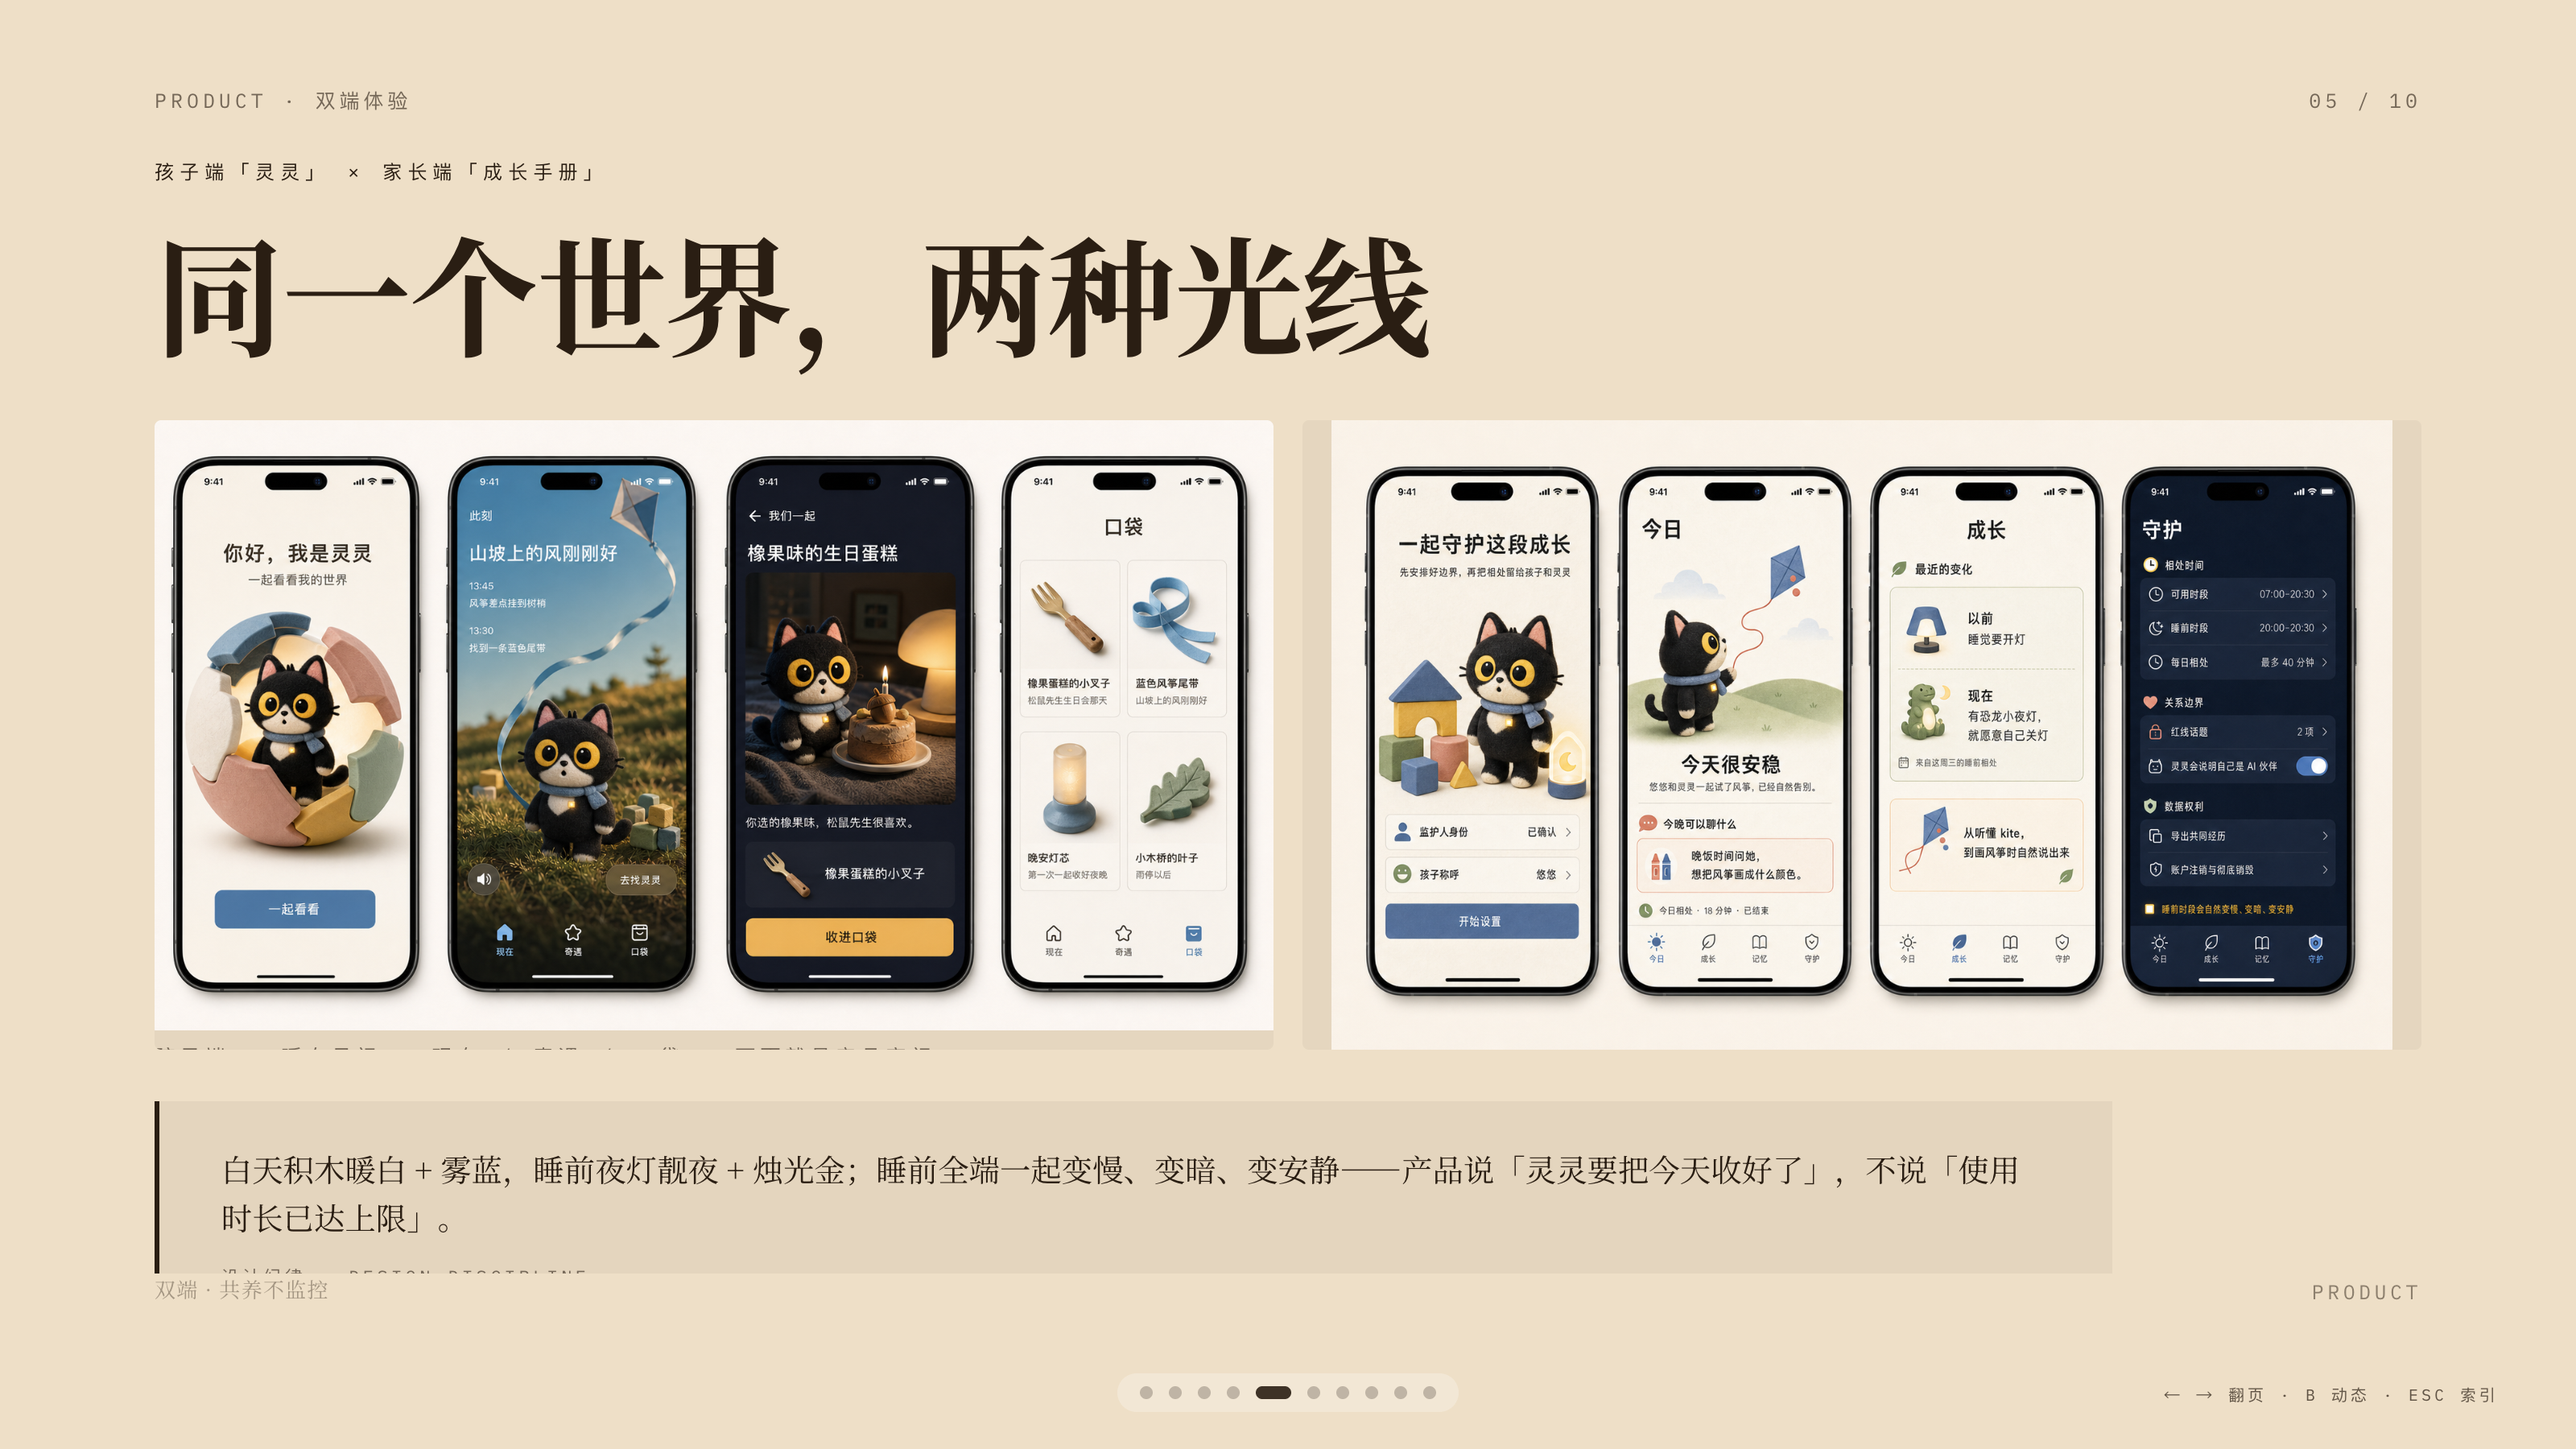
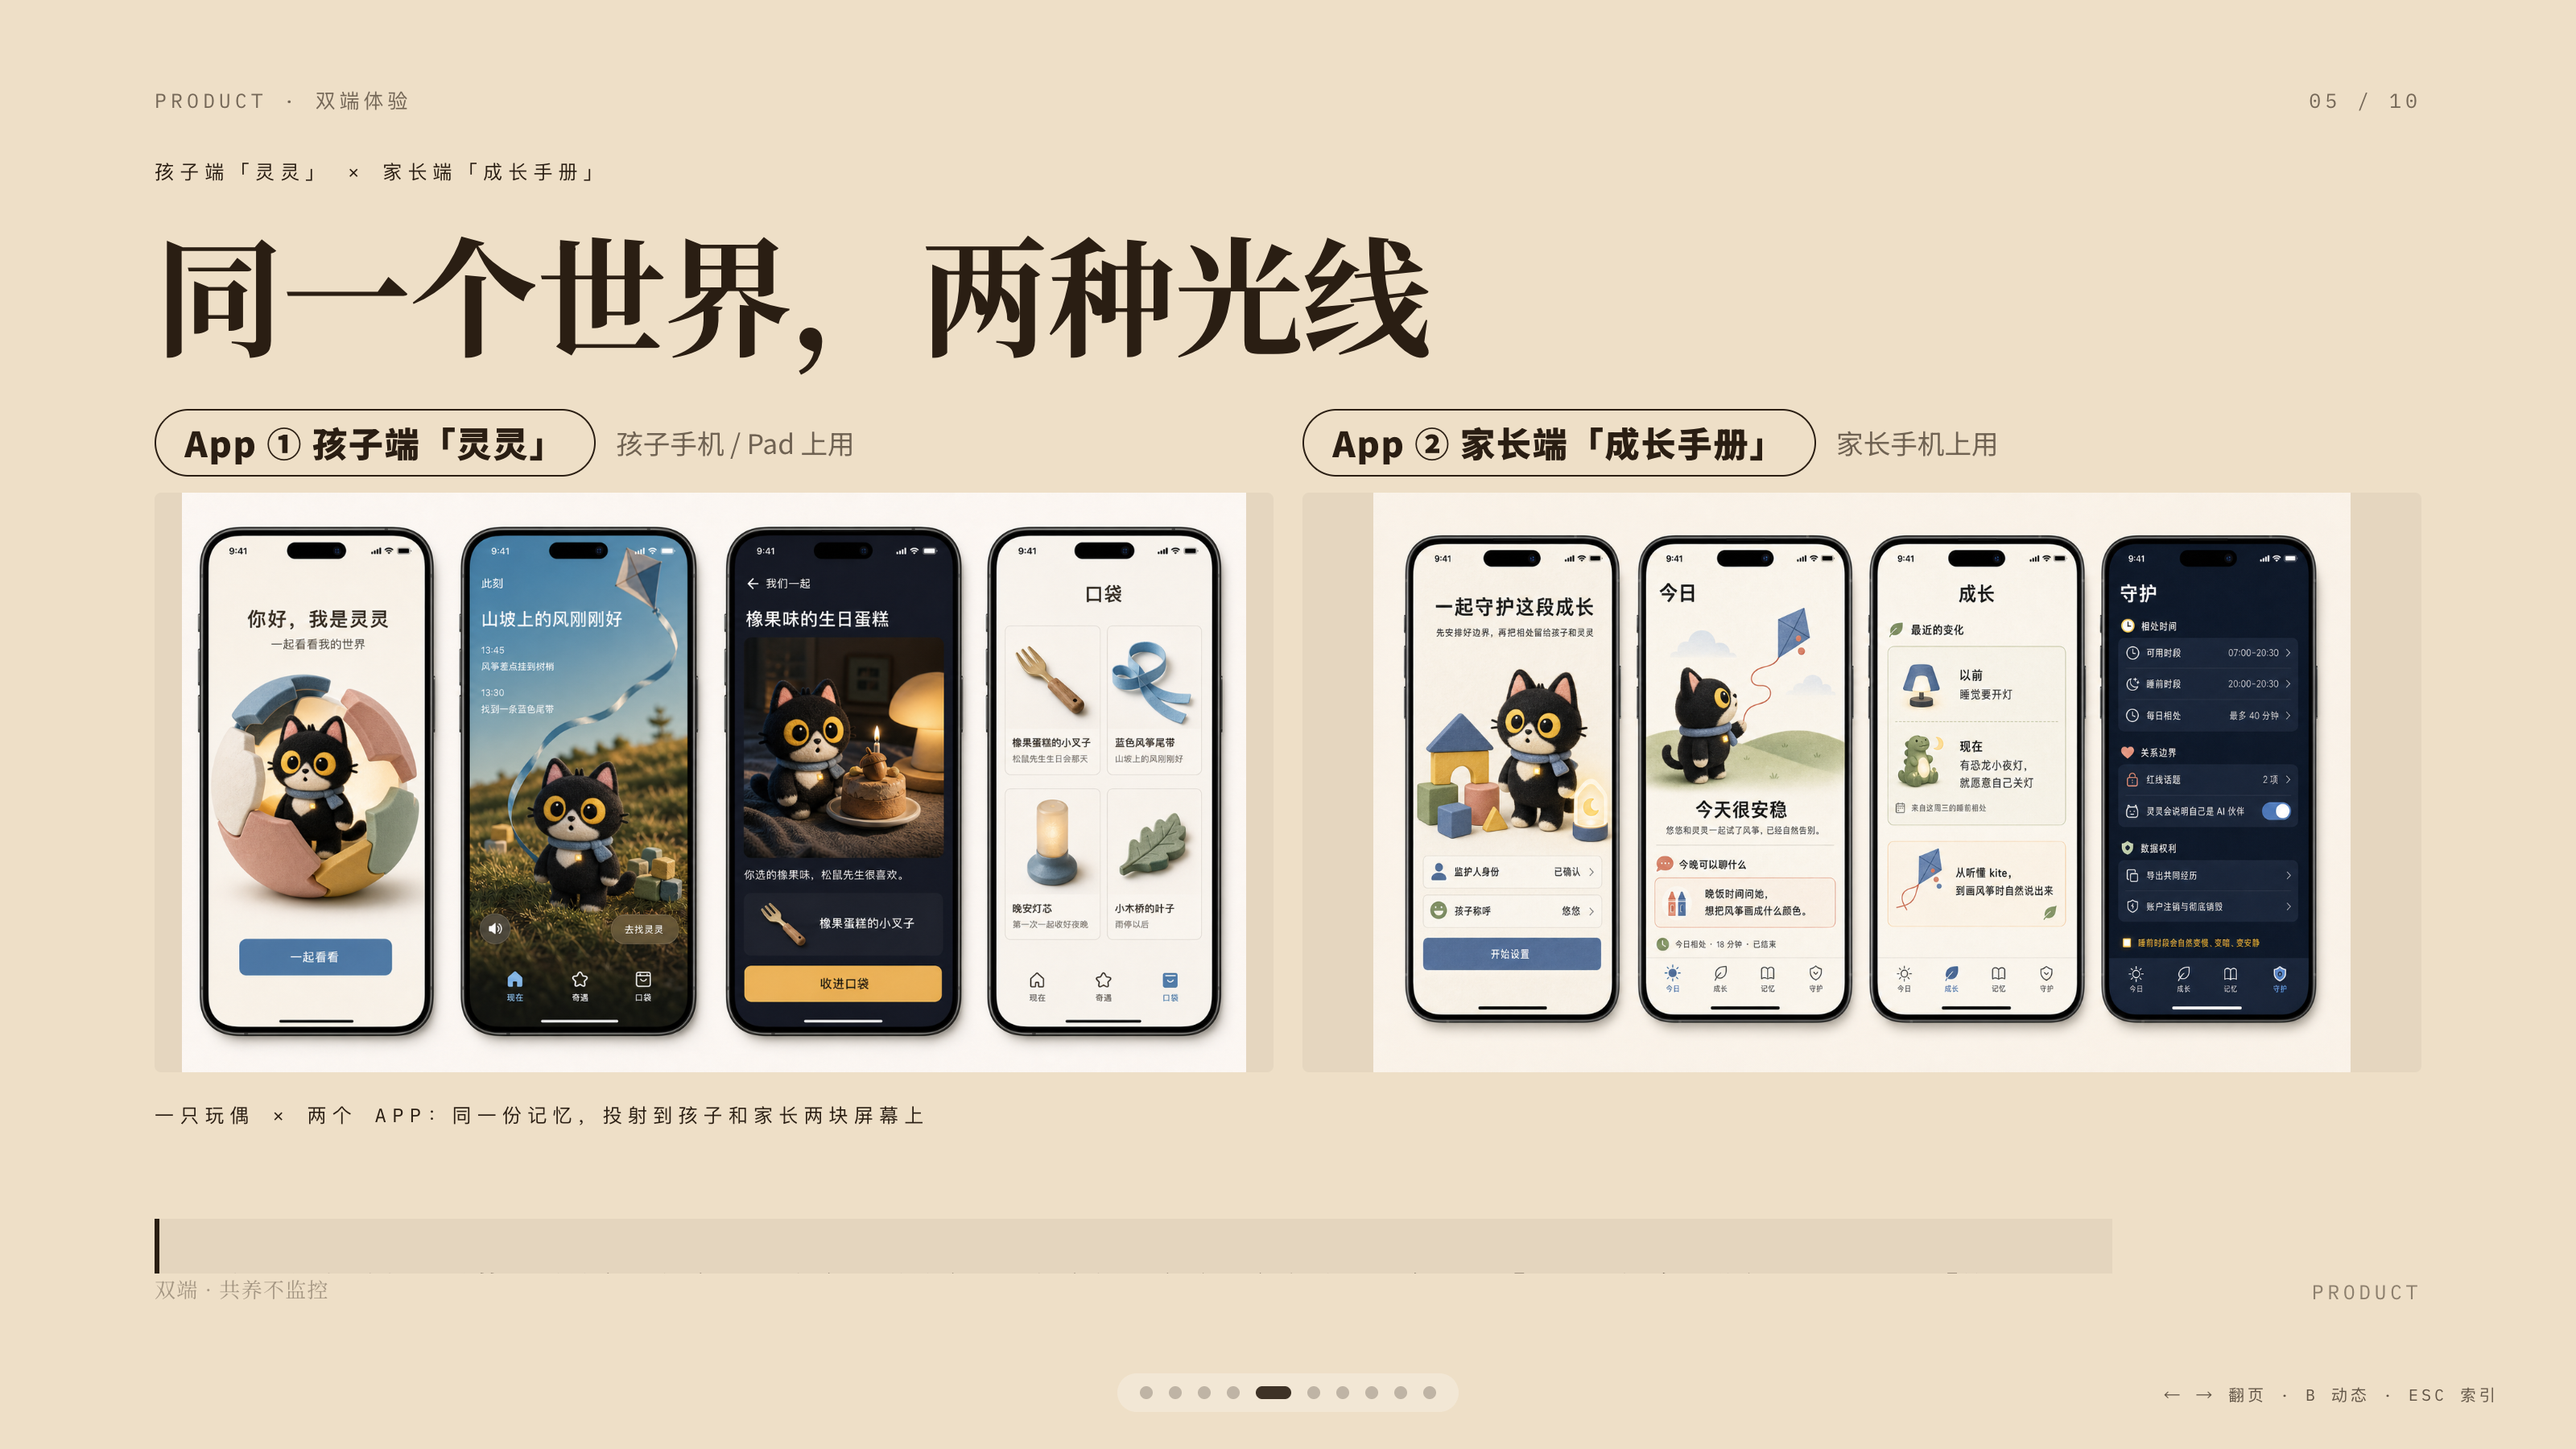
ling-ppt: 5 content fixes (cover crop, dual-app badges, hw+voice pipeline, English emphasis, market wording)

diff --git a/ling-ppt/index.html b/ling-ppt/index.html
@@ -496,13 +496,13 @@
       <h1 class="h-hero" style="font-size:9vw; white-space:nowrap" data-anim>灵 <span class="en" style="font-size:.62em">Ling</span></h1>
       <h2 class="h-sub" data-anim>第一只真正记得孩子的 AI 玩偶</h2>
       <p class="lead" style="max-width:36vw" data-anim>
-        它记得你们一起做过的每一个决定，和孩子一起长大。
+        它记得你们一起做过的每一个决定，还把英语藏进每天的陪伴里——和孩子一起长大。
       </p>
       <div class="meta-row" data-anim>
         <span>Owling AI</span><span>·</span><span>github.com/owling-ai/ling</span><span>·</span><span>Public 开源</span>
       </div>
     </div>
-    <figure class="frame-img r-1x1" style="max-height:56vh" data-anim>
+    <figure class="frame-img r-1x1 fit-contain" style="height:56vh; width:56vh; max-width:100%; justify-self:center; border-radius:14px" data-anim>
       <img src="images/01-cover.jpg" alt="灵灵 · 羊毛毡黑猫玩偶定妆照">
       <figcaption class="img-cap">灵灵 · 羊毛毡定妆照</figcaption>
     </figure>
@@ -652,7 +652,7 @@
         <div class="step" data-anim="step">
           <div class="step-nb">06</div>
           <div class="step-title">下次仍记得</div>
-          <div class="step-desc">灵灵仍记得蛋糕是橡果味——但不抢先提起</div>
+          <div class="step-desc">灵灵仍记得蛋糕是橡果味，顺嘴带出上次学过的 cake——但不抢先提起</div>
         </div>
       </div>
     </div>
@@ -677,16 +677,30 @@
     <div class="kicker" data-anim>孩子端「灵灵」 × 家长端「成长手册」</div>
     <h2 class="h-xl" style="font-size:5vw; white-space:nowrap" data-anim>同一个世界，两种光线</h2>
 
-    <div class="grid-2-6-6" style="margin-top:4vh; gap:3vw 2vh">
-      <figure class="frame-img r-16x9 fit-contain" style="max-height:44vh" data-anim>
-        <img src="images/05-child-app.png" alt="孩子端「灵灵」四屏：现在 / 奇遇 / 口袋">
-        <figcaption class="img-cap">孩子端 · 暖白日间 · 现在 / 奇遇 / 口袋 · 画面就是产品空间</figcaption>
-      </figure>
-      <figure class="frame-img r-16x9 fit-contain" style="max-height:44vh" data-anim>
-        <img src="images/05-parent-app.png" alt="家长端「成长手册」四屏：今日 / 成长 / 记忆 / 守护">
-        <figcaption class="img-cap">家长端 · 守护页靖夜深色 · 今日 / 成长 / 记忆 / 守护</figcaption>
-      </figure>
+    <div class="grid-2-6-6" style="margin-top:3.2vh; gap:3vw 2vh">
+      <div data-anim>
+        <div style="display:flex; align-items:center; gap:.8vw; margin-bottom:1.2vh">
+          <span style="display:inline-block; padding:.5vh 1.1vw; border:1.5px solid currentColor; border-radius:999px; font-weight:800; font-size:1.35vw; letter-spacing:.04em">App ① 孩子端「灵灵」</span>
+          <span style="font-size:1.05vw; opacity:.65">孩子手机 / Pad 上用</span>
+        </div>
+        <figure class="frame-img r-16x9 fit-contain" style="max-height:40vh">
+          <img src="images/05-child-app.png" alt="孩子端 App「灵灵」四屏：现在 / 奇遇 / 口袋">
+          <figcaption class="img-cap">暖白日间 · 现在 / 奇遇 / 口袋 · 画面就是产品空间</figcaption>
+        </figure>
+      </div>
+      <div data-anim>
+        <div style="display:flex; align-items:center; gap:.8vw; margin-bottom:1.2vh">
+          <span style="display:inline-block; padding:.5vh 1.1vw; border:1.5px solid currentColor; border-radius:999px; font-weight:800; font-size:1.35vw; letter-spacing:.04em">App ② 家长端「成长手册」</span>
+          <span style="font-size:1.05vw; opacity:.65">家长手机上用</span>
+        </div>
+        <figure class="frame-img r-16x9 fit-contain" style="max-height:40vh">
+          <img src="images/05-parent-app.png" alt="家长端 App「成长手册」四屏：今日 / 成长 / 记忆 / 守护">
+          <figcaption class="img-cap">守护页靖夜深色 · 今日 / 成长 / 记忆 / 守护</figcaption>
+        </figure>
+      </div>
     </div>
+
+    <div class="kicker" data-anim style="margin-top:2vh">一只玩偶 × 两个 App：同一份记忆，投射到孩子和家长两块屏幕上</div>
 
     <div class="callout" style="margin-top:3.6vh; max-width:76vw" data-anim>
       白天积木暖白 + 雾蓝，睡前夜灯靓夜 + 烛光金；睡前全端一起变慢、变暗、变安静——产品说「灵灵要把今天收好了」，不说「使用时长已达上限」。
@@ -786,12 +800,12 @@
         <div class="d">Gemini Live / StepFun / MiniCPM-o 局域网 / 火山 RTC——记忆系统只依赖「开场记忆包 + 会后转写」两个接口，换模型、上硬件都不动记忆层。</div>
       </div>
       <div class="pillar" data-anim>
-        <div class="t" style="font-size:1.9vw"><i data-lucide="sprout" class="ico-md"></i>　SRS 隐性学习</div>
-        <div class="d">复习词只写进议程，话题自然相关才带出（一场最多 3 个词）；孩子说「不想说英语」立刻放弃全部议程——宁可一个词不复习，也不消耗关系。</div>
+        <div class="t" style="font-size:1.9vw"><i data-lucide="sprout" class="ico-md"></i>　SRS 隐性英语学习</div>
+        <div class="d">英语复习词只写进议程，话题自然相关才带出（一场最多 3 个词）；人教版教材织进基础世界；孩子说「不想说英语」立刻放弃全部议程——宁可一个词不复习，也不消耗关系。</div>
       </div>
       <div class="pillar" data-anim>
-        <div class="t" style="font-size:1.9vw"><i data-lucide="code" class="ico-md"></i>　代码质量</div>
-        <div class="d">Public 开源、完整 README + 6 篇技术文档、pytest + node --test 双端测试、SQLite 迁移、./run.sh 一键启动。</div>
+        <div class="t" style="font-size:1.9vw"><i data-lucide="cpu" class="ico-md"></i>　硬件开发板 + 语音链路</div>
+        <div class="d">ESP32 开发板已调通：I2S 麦克风 16kHz PCM 上行 → 火山流式 ASR → 大模型 → seed-tts「小晴天」童声 24kHz 下行，玩偶真的「睁开眼说话了」。代码 Public 开源，双端测试，./run.sh 一键启动。</div>
       </div>
     </div>
     <figure class="frame-img" style="aspect-ratio:4/3; justify-self:center" data-anim>
@@ -829,7 +843,7 @@
     </div>
     <figure class="frame-img" style="aspect-ratio:16/9; max-height:56vh" data-anim>
       <video src="images/init-demo.mp4" controls muted playsinline preload="metadata" style="width:100%; height:100%; object-fit:cover; display:block"></video>
-      <figcaption class="img-cap">初始化实录 · 灵灵醒来 → 自我介绍 →「快跟我说说今天发生了什么吧」</figcaption>
+      <figcaption class="img-cap">初始化实录 · 灵灵醒来 →「还能陪你一起练习说英语哦」→「快跟我说说今天发生了什么吧」</figcaption>
     </figure>
   </div>
   <div class="foot">
@@ -874,9 +888,9 @@
     <div class="grid-2-6-6" style="margin-top:3.6vh; gap:4vw 2vh; align-items:end">
       <div style="display:flex; gap:4vw">
         <div class="stat-card" style="flex:1" data-anim>
-          <div class="stat-label">China · Age 0–8</div>
-          <div class="stat-nb" style="font-size:4.2vw">1<span class="stat-unit">亿</span></div>
-          <div class="stat-note">中国 0–8 岁儿童规模</div>
+          <div class="stat-label">China · Children</div>
+          <div class="stat-nb" style="font-size:4.2vw">亿<span class="stat-unit">级</span></div>
+          <div class="stat-note">中国儿童群体：陪伴 + 英语启蒙双刚需</div>
         </div>
         <div class="stat-card" style="flex:1" data-anim>
           <div class="stat-label">AI Toy Market</div>
@@ -912,7 +926,7 @@
       <span data-anim style="display:block">记忆就是这个产品。</span>
     </h1>
     <p class="lead" style="max-width:56vw" data-anim>
-      陪伴优先，学习藏在生活里；成长感来自「它记得旧版本的你」。<br>
+      陪伴优先，英语学习藏在生活里；成长感来自「它记得旧版本的你」。<br>
       灵 Ling——第一个真正记得孩子的 AI 伙伴。
     </p>
     <div class="meta-row" data-anim>
